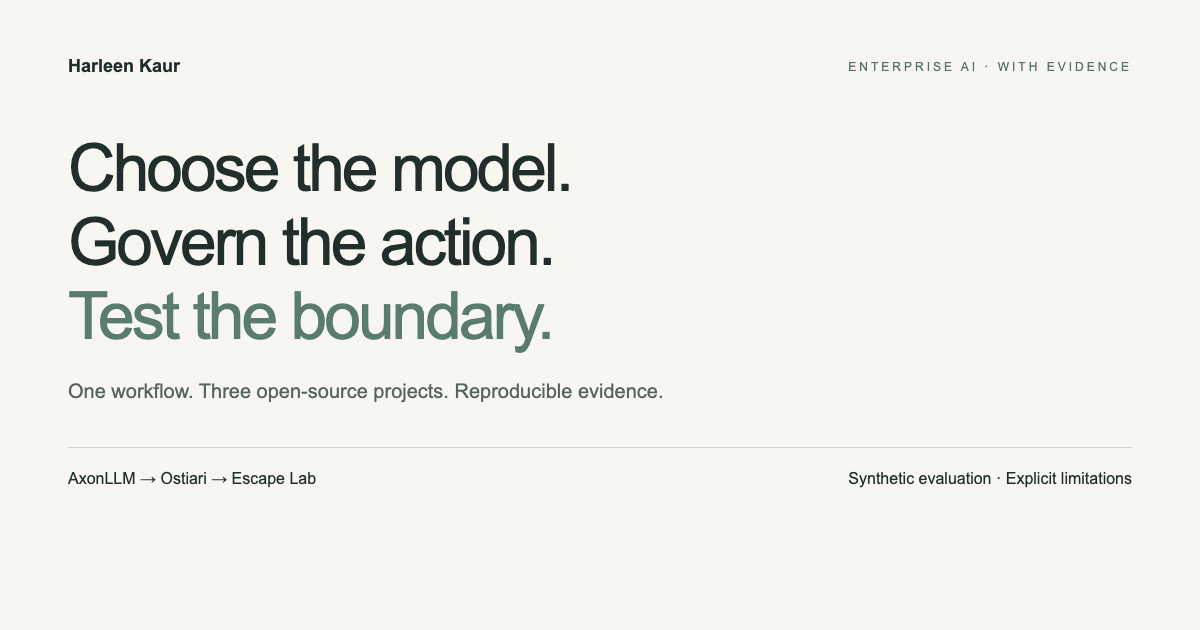
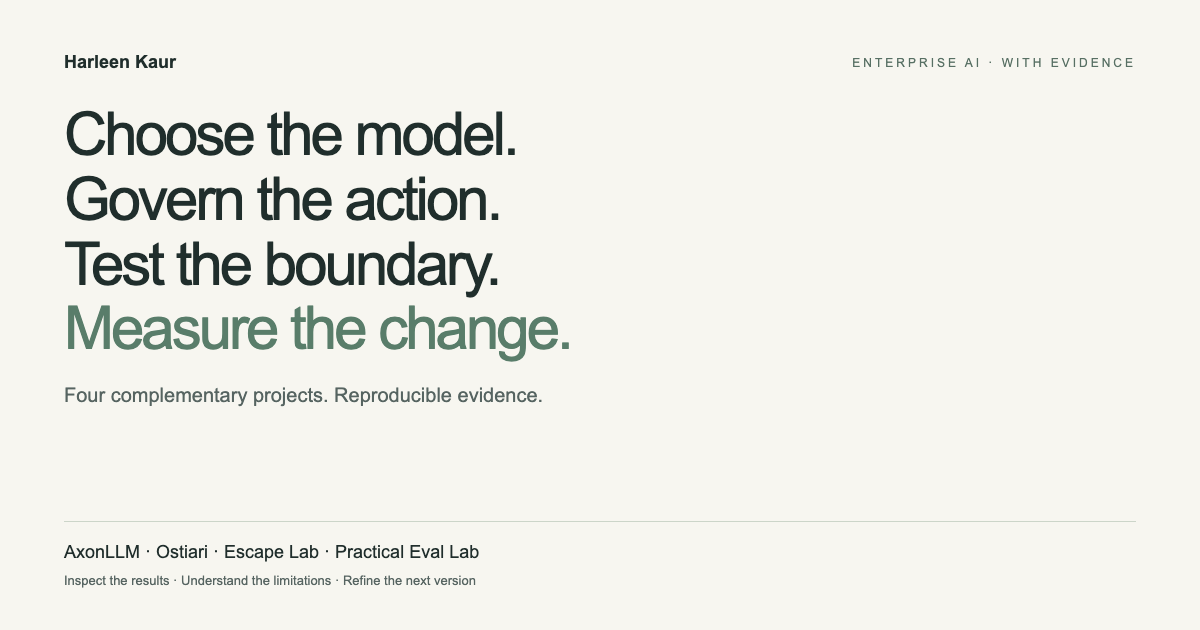
Add Practical Eval Lab to the enterprise AI portfolio

diff --git a/site/styles.css b/site/styles.css
@@ -1,2 +1,8 @@
 :root{--paper:#f7f6f0;--ink:#202e2c;--muted:#566461;--green:#123a36;--accent:#dcca97;--line:#d9ddd3;--white:#fff;--radius:12px}*{box-sizing:border-box}html{scroll-behavior:smooth;scroll-padding-top:28px}body{margin:0;color:var(--ink);background:var(--paper);font-family:Inter,-apple-system,BlinkMacSystemFont,"Segoe UI",sans-serif;font-size:16px;line-height:1.65}a{color:inherit;text-underline-offset:4px}button{font:inherit;cursor:pointer}button,a{-webkit-tap-highlight-color:transparent}button:focus-visible,a:focus-visible,summary:focus-visible{outline:3px solid #ac7928;outline-offset:5px}button:disabled{opacity:.5;cursor:default}.shell{max-width:1192px;margin:auto;padding-inline:40px}.header{display:flex;justify-content:space-between;align-items:center;padding-block:27px;border-bottom:1px solid var(--line)}.identity{font-size:16px;font-weight:650;text-decoration:none;display:flex;align-items:center;gap:12px}.monogram{background:var(--green);color:white;font-size:11px;letter-spacing:1px;padding:9px;border-radius:50%;line-height:1.3}nav{display:flex;gap:27px;font-size:13px}nav a{text-decoration:none}nav a:hover{text-decoration:underline}.hero{padding-top:70px}.eyebrow{text-transform:uppercase;letter-spacing:.15em;font-size:11px;font-weight:650;margin:0 0 20px}.dot{display:inline-block;background:#438777;width:7px;height:7px;border-radius:50%;margin-right:9px}.hero h1{font-size:clamp(44px,5.5vw,74px);font-weight:520;letter-spacing:-.055em;line-height:1.1;margin:0 0 28px}h1 em,h2 em{font-style:normal;color:#597d6a}.intro{max-width:650px;font-size:18px;color:var(--muted);line-height:1.7}.actions{display:flex;gap:28px;align-items:center;margin-top:30px}.button{display:inline-flex;justify-content:center;gap:18px;align-items:center;padding:13px 21px;font-size:13px;font-weight:650;border:1px solid transparent;border-radius:6px;text-decoration:none}.primary{background:var(--green);color:var(--white)}.primary:hover{background:#23524b}.text-link{text-decoration:none;font-size:13px;font-weight:650}.text-link:hover{text-decoration:underline}.hero-note{font-size:11px;color:var(--muted);margin-top:16px}.project-strip{margin-top:58px;display:grid;grid-template-columns:repeat(3,1fr);border-top:1px solid var(--line);padding-block:25px}.project-strip a{display:flex;align-items:center;gap:16px;text-decoration:none;padding:12px 18px;border-right:1px solid var(--line)}.project-strip a:first-child{padding-left:0}.project-strip a:last-child{border-right:0}.project-strip a>span:last-child{margin-left:auto}.number{color:#839086;font-size:12px}.project-strip strong{display:block;font-size:17px}.project-strip small{display:block;font-size:11px;color:var(--muted)}.watch-section{background:var(--green);color:#f4f7ef;padding-block:64px 50px}.section-heading{display:flex;justify-content:space-between;gap:30px;align-items:center}.section-heading .eyebrow{color:#afc6ba}h2{font-size:clamp(28px,3.1vw,41px);letter-spacing:-.035em;line-height:1.18;font-weight:520;margin:0 0 20px}h3{line-height:1.3;letter-spacing:-.02em}.badge{display:inline-block;font-size:10px;padding:6px 12px;border:1px solid #5f8177;border-radius:30px;white-space:nowrap}.section-intro{max-width:670px;color:#c3d2c9;font-size:15px;margin:15px 0 30px}.player{border:1px solid #497067;border-radius:var(--radius);overflow:hidden;background:#14302d}.chapters{display:grid;grid-template-columns:repeat(4,1fr);background:#1e433d}.chapter{border:0;border-bottom:2px solid transparent;text-align:left;padding:17px 20px;background:transparent;color:#bad0c7;font-size:12px}.chapter span{font-size:10px;opacity:.7;margin-right:10px}.chapter.active{color:#f5e5b5;border-color:var(--accent);background:#264d44}.scene{padding:48px 36px;display:grid;grid-template-columns:1fr 1fr;gap:42px;min-height:305px;align-items:center}.scene-copy .eyebrow{color:#b7cbbc;font-size:10px;margin-bottom:15px}.scene h3{font-size:30px;margin:0 0 18px;font-weight:500}.scene-copy>p:last-child{color:#c3d2c9;font-size:13px;margin:0;line-height:1.85}.evidence-card{border:1px solid #527366;background:#173e36;border-radius:8px;overflow:hidden}.evidence-top{padding:13px 16px;border-bottom:1px solid #3f6457;display:flex;justify-content:space-between;gap:12px;font-size:10px;letter-spacing:.02em;color:#d0dccc}.status-dot{height:6px;width:6px;border-radius:50%;background:#c7dc9e;margin-top:6px;flex-shrink:0}pre{font-size:11px;line-height:1.9;font-family:"SFMono-Regular",Consolas,monospace;white-space:pre-wrap;overflow-wrap:anywhere;margin:0}.evidence-card pre{padding:23px 16px;color:#efe5bc;min-height:133px}.evidence-card p{font-size:10px;color:#bbccc2;border-top:1px solid #3f6457;padding:12px 16px;margin:0}.player-controls{border-top:1px solid #365d52;padding:16px 22px;display:flex;align-items:center;gap:18px}.light{background:#ede5c6;color:#153a32;font-size:12px;padding:9px 15px}.subtle-button{background:transparent;color:#d5e1d9;border:0;font-size:12px;padding:8px}.player-controls>span{font-size:10px;color:#acbfb4;margin-left:auto}.player-note{font-size:11px;line-height:1.8;color:#aec5b9;margin:18px 0}.video-details{margin-top:30px;border-top:1px solid #3f675b;padding-top:22px}summary{cursor:pointer;font-size:14px;font-weight:550}summary span{margin-left:15px;font-size:11px;font-weight:400;color:#c1d0c6}.video-details p{font-size:12px;color:#b9ccc0;max-width:750px}.video-details video{width:100%;max-height:580px;margin-top:12px;background:#0d211e;border-radius:8px}.content-section{padding-block:76px}.content-section>.eyebrow{color:#64816c}.two-column{display:grid;grid-template-columns:1fr 1fr;gap:72px}.two-column p{font-size:14px;color:var(--muted);margin-top:0}.two-column p.lead{font-size:18px;line-height:1.5;color:var(--ink)}.architecture{display:flex;align-items:center;gap:18px;margin:38px 0 50px;padding:22px;background:#e9ede3;border-radius:var(--radius)}.architecture div{flex:1;background:var(--paper);border:1px solid #d1d9cb;padding:16px;border-radius:6px}.architecture small{display:block;text-transform:uppercase;letter-spacing:.1em;color:#64816c;font-size:9px}.architecture strong{display:block;font-size:14px;margin:5px 0}.architecture div span{font-size:11px;color:var(--muted)}.architecture>span{color:#5c7661}.results-heading{display:flex;justify-content:space-between;align-items:center;gap:15px}.results-heading h3{font-size:21px;font-weight:550}.badge.dark{color:#45634b;border-color:#c2cfbd}table{width:100%;border-collapse:collapse;font-size:13px;text-align:left}caption{text-align:left;font-size:11px;color:var(--muted);padding-bottom:16px}td,th{padding:16px 13px;border-bottom:1px solid var(--line)}thead th{background:#e9ede3;font-weight:600;font-size:11px}tbody th{font-weight:500}.bad{color:#8e4937}.good{color:#216448}.limitation{background:#eeecdf;border-left:3px solid #a9935c;padding:20px 24px;margin-top:24px;font-size:12px}.limitation p{margin:6px 0 0;color:var(--muted)}.source-details{padding:22px 0 0}.source-details p{font-size:13px;color:var(--muted)}.inspect-section{background:#e9ede3;padding-block:64px}.inspect-section .section-intro{font-size:14px}.terminal{background:#24362d;border-radius:10px;color:#dde3c7;align-self:center;overflow:hidden}.terminal-heading{padding:14px 20px;background:#304638;font-size:10px}.terminal pre{padding:24px 20px;line-height:2.1}.terminal p{padding:0 20px 20px;color:#b1c1ad;font-size:10px;margin:0}.evidence-links{display:flex;flex-wrap:wrap;gap:16px 26px;margin-top:35px;font-size:11px}.decision-grid{display:grid;grid-template-columns:repeat(3,1fr);gap:18px;margin:34px 0 25px}.decision-grid>a{display:block;text-decoration:none;background:#eeeee6;border:1px solid var(--line);border-radius:8px;padding:24px}.decision-grid>a:hover{border-color:#6d8973}.decision-grid small{text-transform:uppercase;font-size:10px;letter-spacing:.12em;color:#63806b}.decision-grid h3{font-size:21px;font-weight:550;margin:16px 0}.decision-grid p{font-size:12px;color:var(--muted)}.decision-grid span{font-size:11px;font-weight:600;display:block;margin-top:22px}footer{display:flex;justify-content:space-between;gap:20px;border-top:1px solid var(--line);padding-block:25px;font-size:10px;color:var(--muted)}footer a{white-space:nowrap}.skip{position:fixed;left:15px;top:-100px;background:white;padding:10px;z-index:10}.skip:focus{top:10px}@media(max-width:800px){.shell{padding-inline:24px}nav{gap:17px}.hero{padding-top:44px}.project-strip small{font-size:10px}.project-strip a{padding-inline:12px;gap:10px}.project-strip .number{display:none}.section-heading{display:block}.section-heading .badge{margin-bottom:12px}.two-column{gap:30px}.scene{padding:30px 24px;gap:25px}.scene h3{font-size:25px}.chapter{padding:15px 10px;font-size:11px}.chapter span{display:block;margin-bottom:3px}.decision-grid{gap:10px}.decision-grid>a{padding:18px}.decision-grid h3{font-size:18px}.results-heading{align-items:start}.architecture{gap:10px;padding:12px}.architecture div{padding:12px}.architecture strong{font-size:12px}.architecture div span{font-size:10px}}@media(max-width:580px){.shell{padding-inline:20px}.header{padding-block:18px;display:block}.identity{font-size:14px}nav{margin-top:16px;justify-content:space-between;font-size:12px;gap:8px}.hero h1{font-size:43px}.intro{font-size:16px}.actions{align-items:flex-start;flex-direction:column;gap:18px}.button{font-size:12px}.project-strip{margin-top:34px;grid-template-columns:1fr;padding-block:8px}.project-strip a{border-right:0;border-bottom:1px solid var(--line);padding:14px 0}.project-strip a:last-child{border-bottom:0}.project-strip small{font-size:11px}.project-strip .number{display:block}.watch-section{padding-block:40px}.scene{grid-template-columns:1fr;gap:24px;min-height:430px;padding:27px 20px}.scene h3{font-size:25px}.scene-copy>p:last-child{font-size:12px}.chapter{font-size:10px;line-height:1.3;padding:12px 8px}.player-controls{flex-wrap:wrap;gap:6px 14px;padding:15px}.player-controls .light{width:100%;margin-bottom:6px}.player-controls>span{margin-left:0}.player-controls #next{margin-left:auto}.player-note{font-size:10px}.video-details summary{font-size:12px}.video-details summary span{display:block;margin-left:15px;font-size:10px}.content-section{padding-block:46px}.two-column{grid-template-columns:1fr;gap:10px}.architecture{flex-direction:column;align-items:stretch;margin-block:24px}.architecture>span{text-align:center;transform:rotate(90deg)}.architecture div span{font-size:11px}.architecture strong{font-size:14px}.results-heading{display:block;margin-bottom:14px}.results-heading h3{margin-bottom:10px}.table-scroll{overflow-x:auto}table{font-size:11px}td,th{padding:12px 7px}thead th{font-size:10px}.inspect-section{padding-block:42px}.terminal{margin-top:20px}.terminal pre{font-size:10px}.decision-grid{grid-template-columns:1fr}.decision-grid h3{font-size:23px}.decision-grid>a{padding:24px}.decision-grid p{font-size:13px}.decision-grid h3 br{display:none}footer{flex-wrap:wrap;font-size:10px;gap:10px}footer span:first-child{width:100%}}@media(prefers-reduced-motion:reduce){html{scroll-behavior:auto}*{animation:none!important;transition:none!important}}
 .skip:not(:focus){clip-path:inset(50%);width:1px;height:1px;overflow:hidden;white-space:nowrap}
+.project-strip,.decision-grid{grid-template-columns:repeat(4,minmax(0,1fr))}
+.project-strip a>div{min-width:0}
+.portfolio-loop{font-size:13px;color:var(--muted);margin:0 0 34px;line-height:1.8}
+.portfolio-loop strong{display:block;color:var(--ink);font-weight:550}
+@media(max-width:1000px){.project-strip,.decision-grid{grid-template-columns:repeat(2,minmax(0,1fr))}.project-strip a:nth-child(odd){padding-left:0}.project-strip a:nth-child(2n){border-right:0}}
+@media(max-width:580px){.project-strip,.decision-grid{grid-template-columns:1fr}.portfolio-loop{font-size:12px}}

diff --git a/site/index.html b/site/index.html
@@ -3,9 +3,9 @@
 <head>
   <meta charset="utf-8">
   <meta name="viewport" content="width=device-width, initial-scale=1">
-  <meta name="description" content="Harleen Kaur's enterprise AI work: AxonLLM selects models, Ostiari governs actions, and Escape Lab tests containment. Watch one workflow and inspect the evidence.">
+  <meta name="description" content="Harleen Kaur's enterprise AI work: AxonLLM routes, Ostiari governs, Escape Lab tests containment, and Practical Eval Lab evaluates behavior and regressions.">
   <meta property="og:title" content="Harleen Kaur · Enterprise AI, with evidence">
-  <meta property="og:description" content="Choose the model. Govern the action. Test the boundary. One workflow, three open-source projects, reproducible evidence.">
+  <meta property="og:description" content="Choose the model. Govern the action. Test the boundary. Measure the change. Four complementary open-source projects, with reproducible evidence.">
   <meta property="og:type" content="website">
   <meta property="og:image" content="https://hk-775.github.io/hk-775/share.png">
   <meta property="og:url" content="https://hk-775.github.io/hk-775/">
@@ -25,15 +25,17 @@
   <main id="main">
     <section class="shell hero">
       <p class="eyebrow"><span class="dot"></span> Enterprise AI · Open-source portfolio</p>
-      <h1>Choose the model.<br>Govern the action.<br><em>Test the boundary.</em></h1>
-      <p class="intro">I'm Harleen Kaur. I build tools that connect model routing, agent governance, and containment testing. Start with one workflow, then follow the evidence into the code.</p>
+      <h1>Choose the model.<br>Govern the action.<br>Test the boundary.<br><em>Measure the change.</em></h1>
+      <p class="intro">I'm Harleen Kaur. I build tools for model routing, agent governance, containment testing, and application evaluation. Start with one workflow, then use inspectable evidence to guide the next change.</p>
       <div class="actions"><a class="button primary" href="#watch">Watch the 60-second workflow <span aria-hidden="true">↗</span></a><a class="text-link" href="#inspect">Run it yourself <span aria-hidden="true">→</span></a></div>
       <p class="hero-note">Real integration code. Synthetic data and model responses. Explicit limitations.</p>
-      <div class="project-strip" aria-label="How the three projects fit together">
+      <div class="project-strip" aria-label="How the four projects fit together">
         <a href="https://github.com/hk-775/axonllm"><span class="number">01</span><div><strong>AxonLLM</strong><small>Select models &amp; provider routes</small></div><span aria-hidden="true">↗</span></a>
         <a href="https://github.com/hk-775/ostiari"><span class="number">02</span><div><strong>Ostiari</strong><small>Govern agent actions</small></div><span aria-hidden="true">↗</span></a>
         <a href="https://github.com/hk-775/OstiariEscapeLab"><span class="number">03</span><div><strong>Escape Lab</strong><small>Test containment &amp; retain evidence</small></div><span aria-hidden="true">↗</span></a>
+        <a href="https://github.com/hk-775/practical-eval-lab"><span class="number">04</span><div><strong>Practical Eval Lab</strong><small>Evaluate behavior &amp; catch regressions</small></div><span aria-hidden="true">↗</span></a>
       </div>
+      <p class="portfolio-loop"><strong>Route → govern → test containment → evaluate behavior → refine.</strong> Evaluation findings guide the next routing, policy, or application change.</p>
     </section>
 
     <section id="watch" class="watch-section">
@@ -86,10 +88,11 @@ Protected    SSN-S06-0001 (synthetic)</pre><p id="evidence-caption">The record, 
       </tbody></table></div>
       <div class="limitation"><strong>What this does—and does not—measure</strong><p>These two runs check a specific data boundary. The completion flag does not assess summary quality. C4 outputs a redaction placeholder. There is no live-model quality evaluation, real human approval, production traffic, isolation certification, or demonstrated business saving in this example.</p></div>
       <details class="source-details"><summary>Separate evidence: AxonLLM routing classification</summary><p>A September 16, 2026 evaluation on 60 held-out generated prompts reported 52 correct heuristic routes, 55 LLM routes, and 57 hybrid routes. The hybrid made 17 classifier calls. That experiment used live classifier calls on synthetic prompts and excluded downstream answer generation.</p><p><a href="https://github.com/hk-775/axonllm/blob/dbfbc70a56c0be5e8f2c4217c179f28f375f87d8/docs/AUTOROUTING_BENCHMARK.md">Methodology and limitations</a> · <a href="https://github.com/hk-775/axonllm/blob/dbfbc70a56c0be5e8f2c4217c179f28f375f87d8/docs/benchmarks/autorouting-held-out-2026-09-16.json">Case-level results</a></p></details>
+      <details class="source-details"><summary>Evaluate the next change with Practical Eval Lab</summary><p>Explore six runnable examples: classification, extraction, tool calling, RAG, response quality, and multi-step agents. Compare candidates, inspect individual failures, and apply regression checks through a local tuning webpage and command-line runner.</p><p>The bundled candidates use local rules. Teaching data includes synthetic cases and an attributed human-preference sample. These offline results demonstrate evaluation methods; they do not establish production quality or safety certification.</p><p><a href="https://github.com/hk-775/practical-eval-lab">Open Practical Eval Lab</a> · <a href="https://github.com/hk-775/practical-eval-lab/blob/e016fe066342d32f800f5bc25282dd38e97afcdb/examples/tool-calling.md">Inspect a regression example</a></p></details>
     </section>
 
     <section id="inspect" class="inspect-section"><div class="shell">
-      <p class="eyebrow">03 / Inspect</p><div class="two-column"><div><h2>Follow the claim<br>all the way to code.</h2><p class="section-intro">Three exact source revisions. Locked dependencies. One command that checks both profiles and verifies the destination state and event chains.</p><a class="button primary" href="https://github.com/hk-775/hk-775/tree/main/examples/customer-summary">Open the reproducible example ↗</a></div><div class="terminal"><div class="terminal-heading">Python 3.11+ &amp; uv</div><pre><code>git clone https://github.com/hk-775/hk-775.git
+      <p class="eyebrow">03 / Inspect</p><div class="two-column"><div><h2>Follow the claim<br>all the way to code.</h2><p class="section-intro">The featured workflow connects AxonLLM, Ostiari, and Escape Lab at three exact source revisions. One command checks both control profiles, the destination state, and the event chains. Practical Eval Lab provides separate application evaluation examples.</p><a class="button primary" href="https://github.com/hk-775/hk-775/tree/main/examples/customer-summary">Open the reproducible example ↗</a></div><div class="terminal"><div class="terminal-heading">Python 3.11+ &amp; uv</div><pre><code>git clone https://github.com/hk-775/hk-775.git
 cd hk-775/examples/customer-summary
 uv sync --locked
 uv run --locked python run.py</code></pre><p>Installation downloads public dependencies. Execution uses a local provider fixture and synthetic tool effects; no paid model calls.</p></div></div>
@@ -102,6 +105,7 @@ uv run --locked python run.py</code></pre><p>Installation downloads public depen
         <a href="https://github.com/hk-775/axonllm/blob/dbfbc70a56c0be5e8f2c4217c179f28f375f87d8/docs/adr/0001-v0.3-product-boundary.md"><small>Scope</small><h3>One routing core.<br>Explicit release boundaries.</h3><p>Inspect the accepted decision and deferred capabilities.</p><span>Read the decision ↗</span></a>
         <a href="https://github.com/hk-775/ostiari/blob/d9abfcf576535327a4aee93d93cc690e85f88a53/docs/architecture.md"><small>Control</small><h3>Policy belongs<br>in the action path.</h3><p>Inspect the gateway, Guard, approval, and deployment boundaries.</p><span>Read the architecture ↗</span></a>
         <a href="https://github.com/hk-775/OstiariEscapeLab/blob/f8d0dc023700ff2c38e8e353b6f95b27aa6eadaa/docs/results.md"><small>Evidence</small><h3>Show the failure.<br>State the limitations.</h3><p>Inspect the control comparison and the limits of the evaluation.</p><span>Read the results ↗</span></a>
+        <a href="https://github.com/hk-775/practical-eval-lab/blob/e016fe066342d32f800f5bc25282dd38e97afcdb/examples/tool-calling.md"><small>Evaluation</small><h3>Measure the change.<br>Inspect regressions.</h3><p>See how case and slice checks reveal failures hidden by an improving average.</p><span>Inspect the example ↗</span></a>
       </div>
       <a class="text-link" href="https://github.com/hk-775/hk-775/blob/main/DECISIONS.md">Read the engineering decision case study →</a>
     </section>

diff --git a/README.md b/README.md
@@ -1,8 +1,10 @@
 # Harleen Kaur
 
-I build open-source tools for enterprise AI: **select the model, govern the action, test the boundary.**
+I build open-source tools for enterprise AI: **select the model, govern the action, test the boundary, measure the change.**
 
-My projects address different parts of the same workflow. **AxonLLM selects models and provider routes. Ostiari governs agent actions. Escape Lab tests whether the controls hold.**
+My projects address complementary engineering questions. **AxonLLM selects models and provider routes. Ostiari governs agent actions. Escape Lab tests containment. Practical Eval Lab evaluates application behavior and regressions.**
+
+Together, they support a development loop: **route → govern → test containment → evaluate behavior → refine**. Evaluation findings guide the next routing, policy, or application change.
 
 **[Start here → one workflow, its evidence, and the code](https://hk-775.github.io/hk-775/)**
 
@@ -20,9 +22,20 @@ My projects address different parts of the same workflow. **AxonLLM selects mode
 | **AxonLLM** | Which model and provider should handle this request? | [Repository](https://github.com/hk-775/axonllm) · [Routing evaluation](https://hk-775.github.io/axonllm/benchmark.html) |
 | **Ostiari** | May this agent take this action, under this policy? | [Repository](https://github.com/hk-775/ostiari) · [Architecture](https://hk-775.github.io/ostiari/#/architecture) |
 | **Escape Lab** | Can a prohibited outcome occur despite the controls? | [Repository](https://github.com/hk-775/OstiariEscapeLab) · [Results and limitations](https://hk-775.github.io/OstiariEscapeLab/) |
+| **Practical Eval Lab** | Did the application improve, and what regressed? | [Repository and quickstart](https://github.com/hk-775/practical-eval-lab) · [Six runnable examples](https://github.com/hk-775/practical-eval-lab#choose-a-lesson) |
+
+The featured workflow connects AxonLLM, Ostiari, and Escape Lab. Practical Eval Lab is a separate local toolkit for choosing success criteria, comparing candidates, inspecting failures, and applying regression checks.
+
+### Evaluate the next change
+
+Practical Eval Lab covers classification, structured extraction, tool calling, RAG, response quality, and multi-step agents. Its tuning webpage, Python/HTTP application adapters, and saved JSON/HTML reports make individual outputs and grading decisions inspectable. Quality gates can catch a regression even when an aggregate score improves.
+
+[Explore the evaluation workflow](https://github.com/hk-775/practical-eval-lab).
 
 ### Read the evidence in context
 
 The featured example uses real routing and control code with a **deterministic provider fixture and synthetic customer data**. It is a reproducible integration check. It does not measure production adoption, business savings, live-model quality, or general containment safety.
 
 AxonLLM's separate routing evaluation uses a generated, reviewed test corpus. Its benchmark scores are evaluation results; the operator tour's seeded dashboard values are demonstration data. Neither is presented as customer production evidence.
+
+Practical Eval Lab's bundled candidates use local rules. Its teaching datasets combine synthetic cases with an attributed human-preference sample. The recorded offline results demonstrate evaluation methods; they do not establish live-model quality, production adoption, or safety certification.

diff --git a/DECISIONS.md b/DECISIONS.md
@@ -26,6 +26,20 @@ The tradeoff is claim discipline: deterministic authored scenarios are useful re
 
 [Read the results and limitations](https://github.com/hk-775/OstiariEscapeLab/blob/f8d0dc023700ff2c38e8e353b6f95b27aa6eadaa/docs/results.md).
 
+## Evaluate behavior before accepting a change
+
+Practical Eval Lab makes candidate outputs, grader checks, case failures, and slice results inspectable across six evaluation examples. It preserves reports for comparison and provides quality and regression gates. An improved average can still fail when a critical case or required slice regresses.
+
+The tradeoff is measurement scope: each grader checks a stated property on a small teaching dataset. Local rule-based candidates, synthetic examples, and an attributed human-preference sample demonstrate the method. They do not qualify a model or deployed system for production.
+
+[Inspect the regression example](https://github.com/hk-775/practical-eval-lab/blob/e016fe066342d32f800f5bc25282dd38e97afcdb/examples/tool-calling.md) · [Read the evaluation contracts](https://github.com/hk-775/practical-eval-lab/blob/e016fe066342d32f800f5bc25282dd38e97afcdb/docs/contracts.md).
+
+## Use findings to guide the next version
+
+Together, the projects support a development loop: AxonLLM selects models, Ostiari governs actions, Escape Lab tests containment, and Practical Eval Lab evaluates behavior and regressions. Findings can inform the next routing, policy, or application change.
+
+This is the portfolio's conceptual relationship. The featured customer-summary example executes the first three projects; Practical Eval Lab supplies separate runnable evaluation examples.
+
 ## What this establishes about leadership
 
 The public record supports review of engineering decisions and maintainer contributions. It does **not** by itself verify direct reports, cross-functional team size, executive decision authority, production adoption, revenue, or cost savings attributable to an individual.

diff --git a/PUBLISHING.md b/PUBLISHING.md
@@ -10,6 +10,8 @@ This is a personal profile and evidence index. Its canonical static page lives i
 - The player explains those recorded results. It does not call any application API, create a WebSocket, or execute the sample.
 - The optional operator video is hosted at the existing AxonLLM GitHub Pages origin. It loads only when the visitor interacts with the video.
 - Personal employment, headcount, customer adoption, executive authority, and business-outcome figures are excluded pending verified shareable sources.
+- Practical Eval Lab is linked as the fourth public project. GitHub repository metadata was checked on October 1, 2026: `hk-775/practical-eval-lab` is public. Decision/example links pin revision `e016fe066342d32f800f5bc25282dd38e97afcdb`.
+- Practical Eval Lab is a separate local evaluation toolkit. Its teaching datasets and offline results are not part of the featured three-project integration or evidence for an enterprise production claim. No lab source, dataset, private evidence, or customer material is copied into this profile.
 - AWS services reference architecture: not applicable to this static personal profile and local fixture example. The site does not deploy an AI service. Each linked product maintains its own architecture and deployment documentation.
 
 ## Verify
